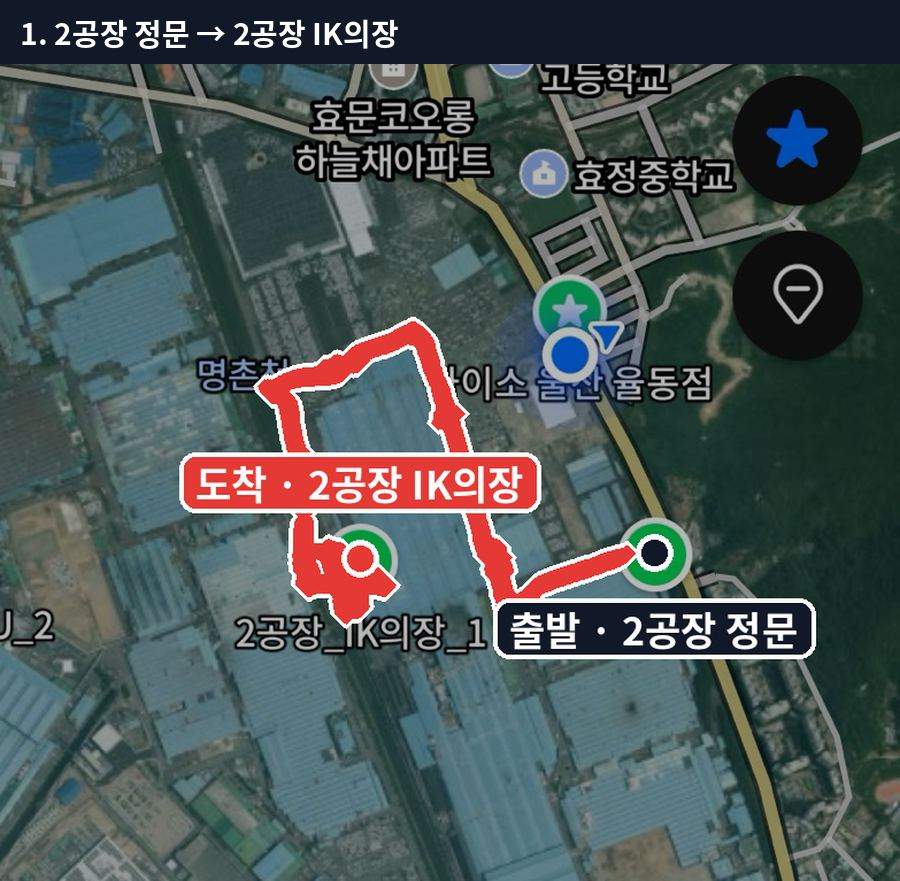
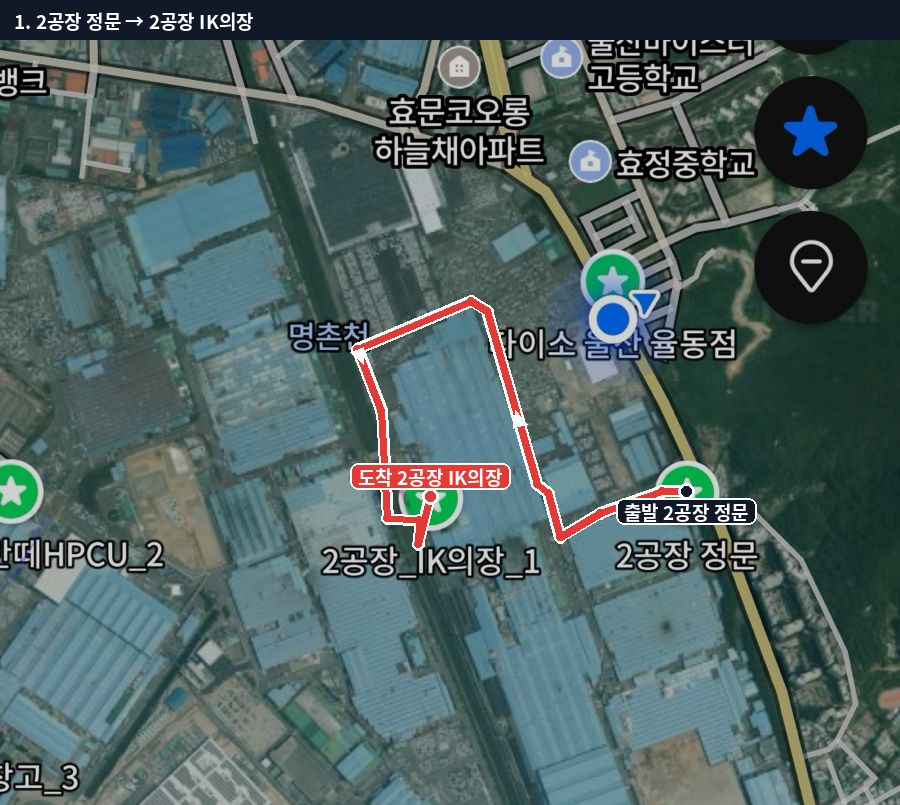
순회 길 안내: 8번 길 반영, 선을 깔끔하게, 글자 작게
Claude-Session: https://claude.ai/code/session_01NPKe1n2ewrD8tTXkDkkXSr

diff --git a/index.html b/index.html
@@ -2313,7 +2313,7 @@ document.addEventListener("visibilitychange",function(){ if(!document.hidden) ro
   var ROUTES=[
     {k:"map",t:"위치도",title:"울산공장 · 고객사 위치도",src:MAPSRC},
     {k:"an",t:"전체 ①~④",title:"순회 길 · ①~④ (2공장·3공장 쪽)",src:"routes/all_n.jpg",cap:"<b>전체 순서 ①~④</b>2공장 정문 → IK의장 → 3공장 아반떼HPCU → 3공장 인알파 → 쎄타 M920. 번호를 누르면 구간별로 크게 볼 수 있습니다."},
-    {k:"as",t:"전체 ⑤~⑧",title:"순회 길 · ⑤~⑧ (1공장·5공장 쪽)",src:"routes/all_s.jpg",cap:"<b>전체 순서 ⑤~⑧</b>쎄타 M920 → 1공장(NE) → 5공장(IK차종) → 5공장 NX5썬루프 → 2공장 정문(처음 자리로)."},
+    {k:"as",t:"전체 ⑤~⑧",title:"순회 길 · ⑤~⑧ (1공장·5공장 쪽)",src:"routes/all_s.jpg",cap:"<b>전체 순서 ⑤~⑧</b>쎄타 M920 → 1공장(NE) → 5공장(IK차종) → 5공장 NX5썬루프 → 2공장 정문(처음 자리로). 이 그림은 네이버 지도를 돌려 본 방향이라 위쪽이 북쪽이 아닙니다."},
     {n:1,a:"2공장 정문",b:"2공장 IK의장",d:"정문으로 들어와 왼쪽(서쪽)으로 조금 간 뒤, 건물 옆 길로 위(북쪽)로 올라갑니다. 끝에서 왼쪽으로 돌아 다시 아래로 내려오면 IK의장입니다."},
     {n:2,a:"2공장 IK의장",b:"3공장 아반떼HPCU",d:"IK의장에서 위쪽 길로 나와 왼쪽(서쪽)으로 쭉 갑니다. 명촌천을 건너 계속 서쪽으로 가면 3공장 아반떼HPCU입니다."},
     {n:3,a:"3공장 아반떼HPCU",b:"3공장 인알파",d:"아반떼HPCU에서 왼쪽 아래(남서쪽)로 조금만 내려가면 3공장 인알파(라인·외부창고)입니다."},
@@ -2321,7 +2321,7 @@ document.addEventListener("visibilitychange",function(){ if(!document.hidden) ro
     {n:5,a:"쎄타 M920",b:"1공장(NE)",d:"쎄타에서 왼쪽(서쪽)으로 나와 하천 옆 길에서 아래(남쪽)로 내려가면 1공장(NE)입니다."},
     {n:6,a:"1공장(NE)",b:"5공장(IK차종)",d:"1공장에서 아래로 조금 내려가 오른쪽(동쪽)으로 꺾은 뒤, 대각선 길로 아래로 내려가면 5공장(IK차종)입니다."},
     {n:7,a:"5공장(IK차종)",b:"5공장 NX5썬루프",d:"5공장에서 오른쪽(동쪽)으로 쭉 간 뒤, 끝에서 아래로 내려가면 5공장 NX5썬루프입니다."},
-    {n:8,a:"5공장 NX5썬루프",b:"2공장 정문",d:"공장 동쪽 큰길로 나와 위(북쪽)로 쭉 올라가면 처음 출발한 2공장 정문입니다."}
+    {n:8,a:"5공장 NX5썬루프",b:"2공장 정문",d:"NX5썬루프에서 문화회관 쪽으로 나와 조금 내려간 뒤, 공장 안 길을 따라 1공장 앞을 지나 쭉 갑니다. 쎄타 아래를 지나 계속 가면 처음 출발한 2공장 정문입니다. (이 그림은 네이버 지도를 돌려 본 방향이라 위쪽이 북쪽이 아닙니다)"}
   ];
   ROUTES.forEach(function(r){ if(r.n){ r.k="r"+r.n; r.t=r.n+". "+r.b; r.title=r.n+". "+r.a+" → "+r.b; r.src="routes/"+r.n+".jpg"; r.cap="<b>"+r.n+". "+esc(r.a)+" → "+esc(r.b)+"</b>"+esc(r.d); } });
   var cur=0;
